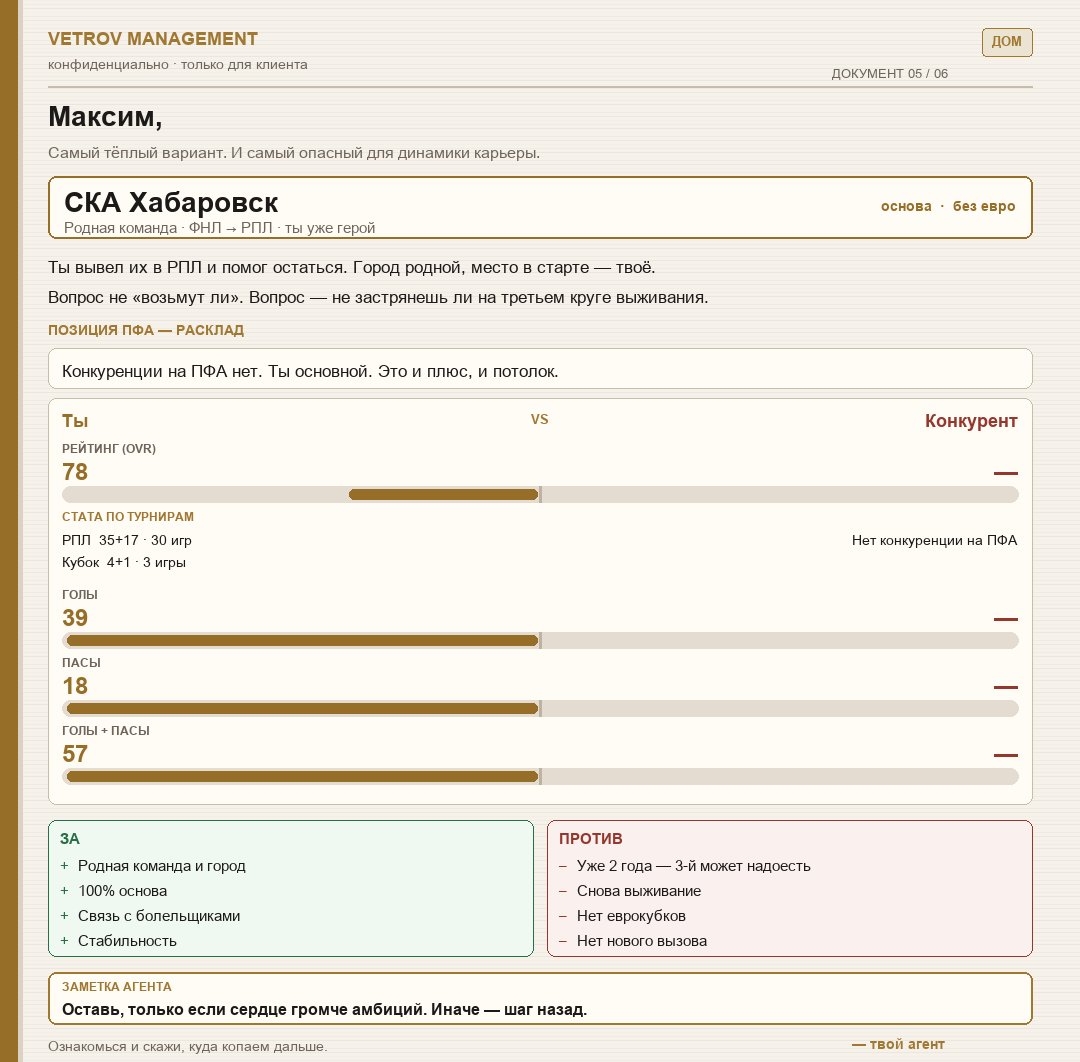
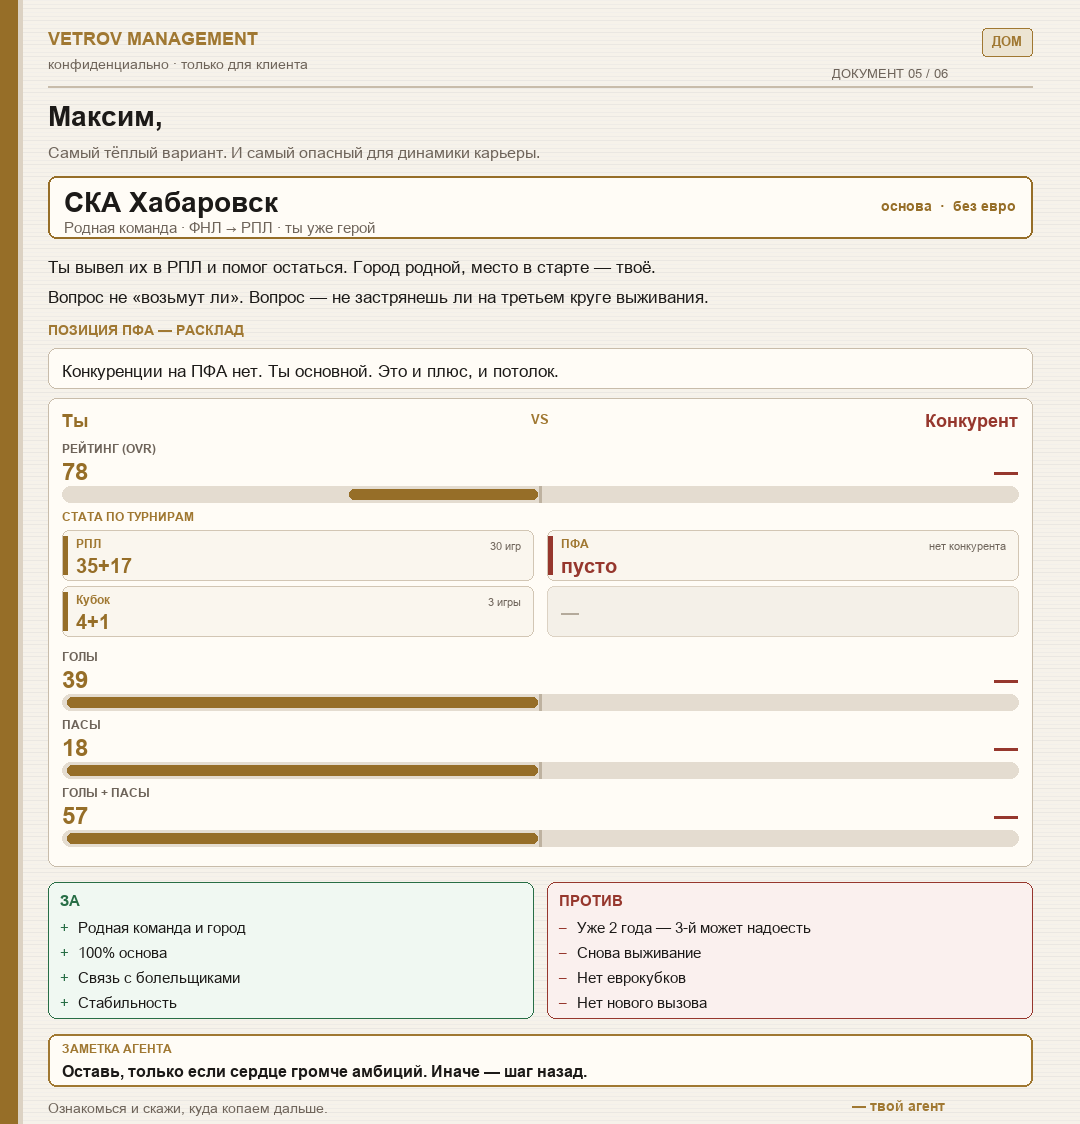
Polish tournament stats as aligned mini-cards in career reports.
Show competition name, apps, and G+A in two columns; match shared tournaments on one row.

Changed region(s): [[0.0306, 0.0311, 0.9472, 0.9944], [0.4583, 0.5282, 0.4889, 0.5593]]

diff --git a/career_poll_reports/generate_career_poll_reports.py b/career_poll_reports/generate_career_poll_reports.py
@@ -166,10 +166,90 @@ def _duel_row(d, x, y, w, label, left_v, right_v, accent, kind: str) -> int:
     return y + 24
 
 
+def _player_tours(side: dict) -> list[dict]:
+    if side.get("tours"):
+        return list(side["tours"])
+    # fallback: старые строковые lines
+    out = []
+    for line in side.get("lines") or []:
+        out.append({"comp": line, "stat": "", "apps": ""})
+    return out or [{"comp": "—", "stat": "—", "apps": ""}]
+
+
+TOUR_CARD_H = 50
+TOUR_GAP = 6
+TOUR_ORDER = {"ЛЧ": 0, "ЛЕ": 1, "ЛК": 2, "РПЛ": 3, "Кубок": 4, "Всего": 5, "Лига": 6, "ПФА": 7}
+
+
+def _tour_index(tours: list[dict]) -> dict[str, dict]:
+    return {str(t.get("comp") or ""): t for t in tours}
+
+
+def _aligned_tour_rows(left_t: list[dict], right_t: list[dict]) -> list[tuple[dict | None, dict | None]]:
+    """Если есть общие названия турниров — выравниваем в строки, иначе две независимые колонки."""
+    li, ri = _tour_index(left_t), _tour_index(right_t)
+    common = set(li) & set(ri) - {""}
+    if not common:
+        n = max(len(left_t), len(right_t), 1)
+        rows = []
+        for i in range(n):
+            rows.append((left_t[i] if i < len(left_t) else None, right_t[i] if i < len(right_t) else None))
+        return rows
+
+    names = sorted(set(li) | set(ri), key=lambda c: (TOUR_ORDER.get(c, 40), c))
+    return [(li.get(n), ri.get(n)) for n in names]
+
+
+def tours_block_height(left: dict, right: dict) -> int:
+    n = max(len(_aligned_tour_rows(_player_tours(left), _player_tours(right))), 1)
+    return n * TOUR_CARD_H + max(0, n - 1) * TOUR_GAP
+
+
+def draw_tour_card(d, x, y, w, tour: dict | None, color) -> None:
+    """Мини-карточка турнира: название · матчи · крупно G+A."""
+    if tour is None:
+        round_rect(d, [x, y, x + w, y + TOUR_CARD_H], 7, (244, 240, 232), (220, 210, 195), 1)
+        d.text((x + 14, y + 16), "—", font=font(18, True), fill=(180, 170, 155))
+        return
+
+    round_rect(d, [x, y, x + w, y + TOUR_CARD_H], 7, (250, 246, 238), (210, 198, 180), 1)
+    d.rectangle([x + 1, y + 6, x + 5, y + TOUR_CARD_H - 6], fill=color)
+
+    comp = fit(d, str(tour.get("comp") or "—"), font(12, True), w - 24)
+    d.text((x + 14, y + 7), comp, font=font(12, True), fill=GOLD)
+
+    apps = tour.get("apps")
+    if apps not in (None, ""):
+        apps_s = str(apps)
+        aw = d.textbbox((0, 0), apps_s, font=font(11))[2]
+        d.text((x + w - 12 - aw, y + 8), apps_s, font=font(11), fill=INK_DIM)
+
+    stat = str(tour.get("stat") if tour.get("stat") not in (None, "") else "—")
+    d.text((x + 14, y + 24), fit(d, stat, font(20, True), w - 28), font=font(20, True), fill=color)
+
+
+def draw_tours_compare(d, x, y, w, left, right, accent) -> int:
+    """Две колонки карточек турниров. Возвращает y под блоком."""
+    rows = _aligned_tour_rows(_player_tours(left), _player_tours(right))
+    gap = 14
+    col_w = (w - gap) // 2
+    h = tours_block_height(left, right)
+
+    d.text((x, y), "СТАТА ПО ТУРНИРАМ", font=font(12, True), fill=GOLD)
+    y += 20
+
+    for i, (lt, rt) in enumerate(rows):
+        row_y = y + i * (TOUR_CARD_H + TOUR_GAP)
+        draw_tour_card(d, x, row_y, col_w, lt, accent)
+        draw_tour_card(d, x + col_w + gap, row_y, col_w, rt, RED)
+
+    return y + h + 14
+
+
 def vs_block_height(left: dict, right: dict) -> int:
-    n_lines = max(len(left.get("lines") or []), len(right.get("lines") or []), 1)
-    # pad12 + names32 + ovr68 + tour20 + lines + gap14 + 3×duel68 + bottom12
-    return 12 + 32 + 68 + 20 + n_lines * 22 + 14 + 68 * 3 + 12
+    tours_h = 20 + tours_block_height(left, right) + 14
+    # pad12 + names32 + ovr68 + tours + 3×duel68 + bottom12
+    return 12 + 32 + 68 + tours_h + 68 * 3 + 12
 
 
 def draw_vs(d, x, y, w, left, right, accent) -> int:
@@ -177,9 +257,6 @@ def draw_vs(d, x, y, w, left, right, accent) -> int:
     Сравнение: OVR → стата по турнирам → голы / пасы / Г+П.
     Возвращает y сразу под блоком.
     """
-    left_lines = list(left.get("lines") or [])
-    right_lines = list(right.get("lines") or [])
-    n_lines = max(len(left_lines), len(right_lines), 1)
     h = vs_block_height(left, right)
     round_rect(d, [x, y, x + w, y + h], 8, (255, 252, 246), RULE, 1)
     pad_in = 14
@@ -196,19 +273,7 @@ def draw_vs(d, x, y, w, left, right, accent) -> int:
     cy += 32
 
     cy = _duel_row(d, ix, cy, iw, "РЕЙТИНГ (OVR)", left.get("ovr"), right.get("ovr"), accent, "ovr")
-
-    d.text((ix, cy), "СТАТА ПО ТУРНИРАМ", font=font(12, True), fill=GOLD)
-    cy += 20
-    col_w = iw // 2 - 10
-    for i in range(n_lines):
-        if i < len(left_lines):
-            d.text((ix, cy), fit(d, left_lines[i], font(14), col_w), font=font(14), fill=INK)
-        if i < len(right_lines):
-            t = fit(d, right_lines[i], font(14), col_w)
-            tw = d.textbbox((0, 0), t, font=font(14))[2]
-            d.text((ix + iw - tw, cy), t, font=font(14), fill=INK)
-        cy += 22
-    cy += 14
+    cy = draw_tours_compare(d, ix, cy, iw, left, right, accent)
 
     g_l, a_l = left.get("g"), left.get("a")
     g_r, a_r = right.get("g"), right.get("a")
@@ -230,6 +295,14 @@ def draw_vs(d, x, y, w, left, right, accent) -> int:
     cy = _duel_row(d, ix, cy, iw, "ГОЛЫ + ПАСЫ", ga_l, ga_r, accent, "stat")
 
     return y + h
+
+
+YOU_TOURS = [
+    {"comp": "РПЛ", "stat": "35+17", "apps": "30 игр"},
+    {"comp": "Кубок", "stat": "4+1", "apps": "3 игры"},
+]
+
+YOU_VS = {"name": "Ты", "ovr": "78", "g": 39, "a": 18, "ga": 57, "tours": YOU_TOURS}
 
 
 def render_dossier(data: dict) -> bytes:
@@ -392,21 +465,18 @@ DOSSIERS = [
             "На ПФА сейчас Энрике. Место в основе придётся отбирать, Зенит любит покупать топов.",
         ],
         "vs": (
-            {
-                "name": "Ты",
-                "ovr": "78",
-                "g": 39,
-                "a": 18,
-                "ga": 57,
-                "lines": ["РПЛ  35+17 · 30 игр", "Кубок  4+1 · 3 игры"],
-            },
+            YOU_VS,
             {
                 "name": "Энрике",
                 "ovr": "84",
                 "g": 14,
                 "a": 10,
                 "ga": 24,
-                "lines": ["ЛЧ  2+1", "РПЛ  3+3", "Кубок  9+6"],
+                "tours": [
+                    {"comp": "ЛЧ", "stat": "2+1", "apps": ""},
+                    {"comp": "РПЛ", "stat": "3+3", "apps": ""},
+                    {"comp": "Кубок", "stat": "9+6", "apps": ""},
+                ],
             },
         ),
         "pros": [
@@ -440,21 +510,16 @@ DOSSIERS = [
             "На фланге Ярослав Гладышев (77). Ты уже чуть выше рейтингом и сильно выше по отдаче.",
         ],
         "vs": (
-            {
-                "name": "Ты",
-                "ovr": "78",
-                "g": 39,
-                "a": 18,
-                "ga": 57,
-                "lines": ["РПЛ  35+17 · 30 игр", "Кубок  4+1 · 3 игры"],
-            },
+            YOU_VS,
             {
                 "name": "Гладышев",
                 "ovr": "77",
                 "g": 4,
                 "a": 2,
                 "ga": 6,
-                "lines": ["РПЛ  ~4+2 · ~23 игры"],
+                "tours": [
+                    {"comp": "РПЛ", "stat": "~4+2", "apps": "~23 игры"},
+                ],
             },
         ),
         "pros": [
@@ -488,21 +553,17 @@ DOSSIERS = [
             "Бонгонда (74) и Солари (80): один слабый рейтингом, второй — провальной статой (0+2).",
         ],
         "vs": (
-            {
-                "name": "Ты",
-                "ovr": "78",
-                "g": 39,
-                "a": 18,
-                "ga": 57,
-                "lines": ["РПЛ  35+17 · 30 игр", "Кубок  4+1 · 3 игры"],
-            },
+            YOU_VS,
             {
                 "name": "Солари",
                 "ovr": "80",
                 "g": 0,
                 "a": 2,
                 "ga": 2,
-                "lines": ["Солари  0+2", "Бонгонда 74 · 4+6"],
+                "tours": [
+                    {"comp": "Солари", "stat": "0+2", "apps": "80 OVR"},
+                    {"comp": "Бонгонда", "stat": "4+6", "apps": "74 OVR"},
+                ],
             },
         ),
         "pros": [
@@ -536,21 +597,16 @@ DOSSIERS = [
             "Мантуан (79) рядом по OVR, но 8+4 за 46 — это не твой уровень. Глубина фланга ещё слабее.",
         ],
         "vs": (
-            {
-                "name": "Ты",
-                "ovr": "78",
-                "g": 39,
-                "a": 18,
-                "ga": 57,
-                "lines": ["РПЛ  35+17 · 30 игр", "Кубок  4+1 · 3 игры"],
-            },
+            YOU_VS,
             {
                 "name": "Мантуан",
                 "ovr": "79",
                 "g": 8,
                 "a": 4,
                 "ga": 12,
-                "lines": ["Всего  8+4 · 46 игр"],
+                "tours": [
+                    {"comp": "Всего", "stat": "8+4", "apps": "46 игр"},
+                ],
             },
         ),
         "pros": [
@@ -584,21 +640,16 @@ DOSSIERS = [
             "Конкуренции на ПФА нет. Ты основной. Это и плюс, и потолок.",
         ],
         "vs": (
-            {
-                "name": "Ты",
-                "ovr": "78",
-                "g": 39,
-                "a": 18,
-                "ga": 57,
-                "lines": ["РПЛ  35+17 · 30 игр", "Кубок  4+1 · 3 игры"],
-            },
+            YOU_VS,
             {
                 "name": "Конкурент",
                 "ovr": "—",
                 "g": "—",
                 "a": "—",
                 "ga": "—",
-                "lines": ["Нет конкуренции на ПФА"],
+                "tours": [
+                    {"comp": "ПФА", "stat": "пусто", "apps": "нет конкурента"},
+                ],
             },
         ),
         "pros": [
@@ -633,21 +684,16 @@ DOSSIERS = [
             "Кто на позиции — неизвестно. Гарантий нет. Зато страница карьеры точно новая.",
         ],
         "vs": (
-            {
-                "name": "Ты",
-                "ovr": "78",
-                "g": 39,
-                "a": 18,
-                "ga": 57,
-                "lines": ["РПЛ  35+17 · 30 игр", "Кубок  4+1 · 3 игры"],
-            },
+            YOU_VS,
             {
                 "name": "Конкурент",
                 "ovr": "?",
                 "g": "?",
                 "a": "?",
                 "ga": "?",
-                "lines": ["Стата неизвестна"],
+                "tours": [
+                    {"comp": "Лига", "stat": "?", "apps": "неизвестно"},
+                ],
             },
         ),
         "pros": [
